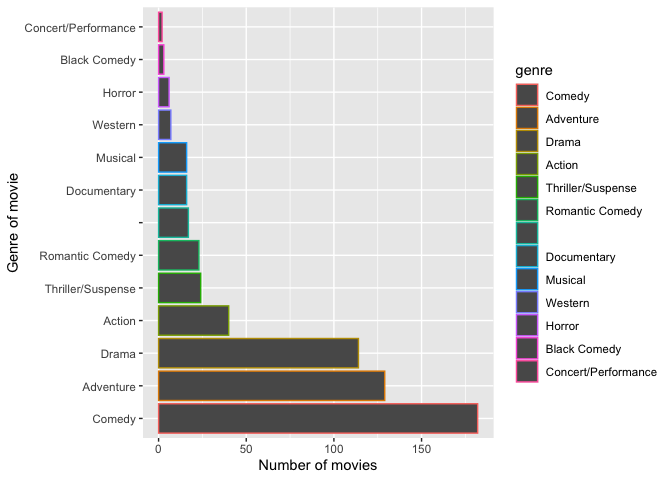
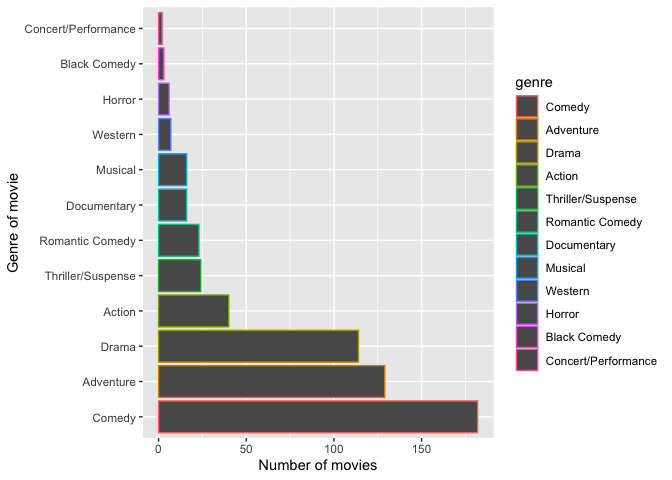
30.11.2022

diff --git a/Datapractical_disney.md b/Datapractical_disney.md
@@ -103,13 +103,16 @@ The first thing we want to look at in this analysis is about the genre.
 How many movies from each genre is in our dataset ?
 
 ``` r
+library(tidyr)
+df_clean <- df[!df$genre=="",]
 library(ggplot2)
 library(dplyr)
-df <- within(df, 
+df_clean <- within(df_clean, 
              genre <- factor(genre, 
                              levels=names(sort(table(genre), 
                                             decreasing=TRUE))))
-ggplot(df, aes(x=genre, color=genre)) +
+library(ggplot2)
+ggplot(df_clean, aes(x=genre, color=genre)) +
   geom_bar() +
   coord_flip() +
   xlab("Genre of movie") +
@@ -127,6 +130,9 @@ The following part of this analyze concerns only the revenue of those
 movies, over the entire period of movies production from disney company.
 
 ``` r
+library(tidyr)
+
+
 ggplot(df, aes(x=release_date, y=total_gross)) +
   geom_line()
 ```
